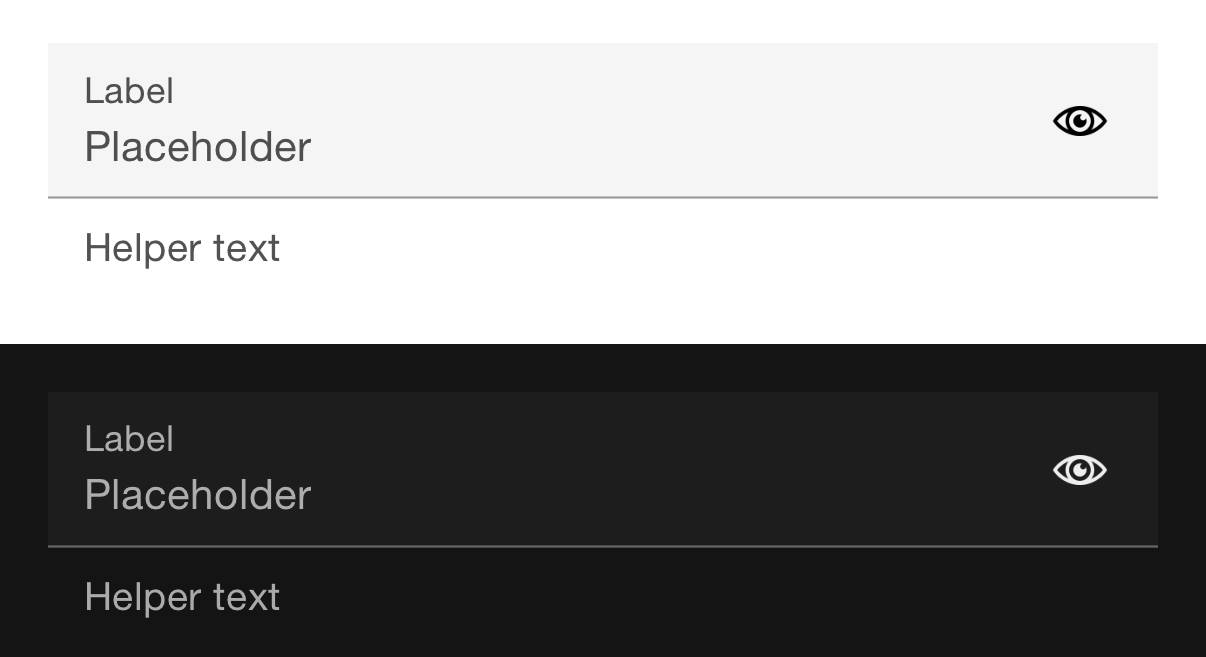
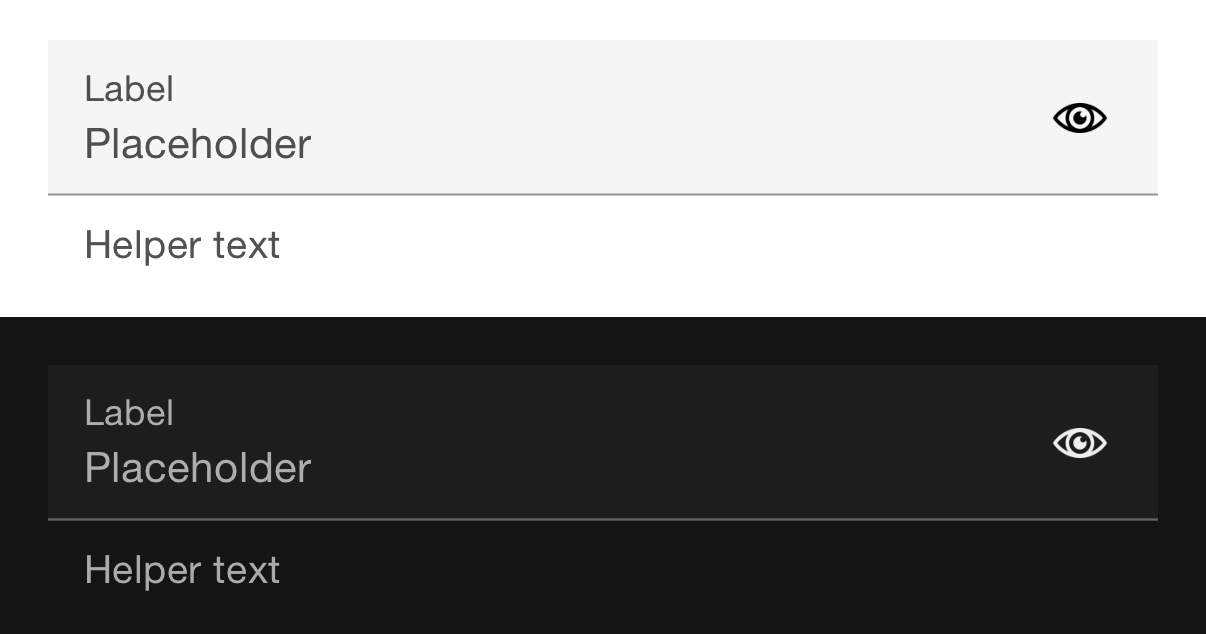
refactor: update `text area` component to v1.2 (#1448) (#1521)
Change typography for input text field

Closes #1448

diff --git a/OUDS/Core/Components/Sources/Controls/TextArea/Internal/TextAreaContainer.swift b/OUDS/Core/Components/Sources/Controls/TextArea/Internal/TextAreaContainer.swift
@@ -72,12 +72,13 @@ struct TextAreaContainer: View {
                 // The top of the container is aligned with the top of the main content
                 TextAreaTrailingContainer(status: status,
                                           interactionState: interactionState,
-                                          isOverLimit: isOverLimit)
+                                          isOverLimit: isOverLimit,
+                                          isSmallLabel: isSmallLabel)
             }
         }
-        .padding(.vertical, theme.textArea.spacePaddingBlock)
+        .padding(.top, theme.textArea.spacePaddingBlockTopEmpty)
         .padding(.leading, theme.textInput.spacePaddingInlineDefault)
-        .padding(.trailing, trailingPadding)
+        .padding(.trailing, theme.textInput.spacePaddingInlineTrailingAction)
         .modifier(TextAreaBackgroundModifier(status: status,
                                              interactionState: interactionState,
                                              isOverLimit: isOverLimit,
@@ -100,12 +101,6 @@ struct TextAreaContainer: View {
 
     private var isSmallLabel: Bool {
         !text.wrappedValue.isEmpty || placeholder?.isEmpty == false || interactionState == .focused
-    }
-
-    /// Always use the reduced trailing padding so the HStack width never changes between statuses.
-    /// The trailing container always reserves the same fixed-width slot (visible or invisible).
-    private var trailingPadding: CGFloat {
-        theme.textInput.spacePaddingInlineTrailingAction
     }
 
     private var accessibilityLabel: String {

diff --git a/OUDS/Core/Components/Sources/Controls/TextArea/Internal/TextAreaTrailingContainer.swift b/OUDS/Core/Components/Sources/Controls/TextArea/Internal/TextAreaTrailingContainer.swift
@@ -31,6 +31,8 @@ struct TextAreaTrailingContainer: View {
     let interactionState: TextAreaInteractionState
     /// `true` when the caller uses `.charactersMaxCount` and the text exceeds the limit.
     let isOverLimit: Bool
+    /// `true` if the associated `OUDSTextArea` component does not have a placeholder nor a value, i.e. the label is small
+    let isSmallLabel: Bool
 
     @Environment(\.theme) private var theme
 
@@ -59,7 +61,7 @@ struct TextAreaTrailingContainer: View {
                            action: {})
                     .accessibilityHidden(true)
             }
-        }.frame(maxHeight: theme.textArea.sizeMaxHeightAssetsContainer)
+        }
     }
 
     // MARK: - Helpers
@@ -74,6 +76,7 @@ struct TextAreaTrailingContainer: View {
                    height: theme.button.sizeIconOnly,
                    alignment: .center)
             .padding(.horizontal, theme.button.spaceInsetIconOnly)
+            .padding(.vertical, verticalPadding)
     }
 
     private var errorIconColor: MultipleColorSemanticToken {
@@ -85,6 +88,10 @@ struct TextAreaTrailingContainer: View {
         case .hover:
             theme.colors.actionNegativeHover
         }
+    }
+
+    private var verticalPadding: SpaceSemanticToken {
+        isSmallLabel ? theme.textArea.spacePaddingBlockTrailingContainer : theme.textArea.spacePaddingBlockEmptyTrailingContainer
     }
 }
 #endif

diff --git a/OUDS/Core/Components/Sources/Controls/TextArea/Internal/TextAreaInputText.swift b/OUDS/Core/Components/Sources/Controls/TextArea/Internal/TextAreaInputText.swift
@@ -48,7 +48,7 @@ struct TextAreaInputText: View {
             // - min/maxHeight come directly from the text area size tokens — no Dynamic Type scaling
             //   arithmetic needed, keeping the frame stable across style and status changes.
             rawTextEditor
-                .labelDefaultLarge(theme)
+                .labelModerateLarge(theme)
                 .foregroundColor(inputTextColor)
                 .tint(cursorColor.color(for: colorScheme))
                 .background(Color.clear)

diff --git a/OUDS/Core/ThemesContract/Sources/TokenatorConstants.swift b/OUDS/Core/ThemesContract/Sources/TokenatorConstants.swift
@@ -76,7 +76,7 @@
     /// Version of the Figma specifications for the component select input (1.3.0)
     public static let componentSelectInputVersion = "1.3.0"
     /// Version of the Figma specifications for the component text area (1.0.0)
-    public static let componentTextAreaVersion = "1.1.0" // NOTE: #1473 - v1.2.0 not implemented yet
+    public static let componentTextAreaVersion = "1.2.0"
 
     // MARK: - Components versions - Dialog
 

diff --git a/OUDS/Core/Components/Sources/Controls/TextArea/OUDSTextArea.swift b/OUDS/Core/Components/Sources/Controls/TextArea/OUDSTextArea.swift
@@ -170,7 +170,7 @@ import SwiftUI
 ///
 /// ![A text area component in light and dark modes with Wireframe theme](component_textArea_Wireframe)
 ///
-/// - Version: 1.1.0 (Figma component design version)
+/// - Version: 1.2.0 (Figma component design version)
 /// - Since: 1.4.0
 @available(iOS 15, macOS 13, visionOS 1, *)
 public struct OUDSTextArea: View {

diff --git a/CHANGELOG.md b/CHANGELOG.md
@@ -8,6 +8,7 @@ and this project adheres to [Semantic Versioning](https://semver.org/spec/v2.0.0
 
 ### Changed
 
+- `text area` component (Orange-OpenSource/ouds-ios#1448)
 - `text input` component typography with label moderate typography for texts (Orange-OpenSource/ouds-ios#1446)
 - `password input` component typography with label moderate typography for texts (Orange-OpenSource/ouds-ios#1443)
 - `PIN code input` component with new typography (Orange-OpenSource/ouds-ios#1444)
